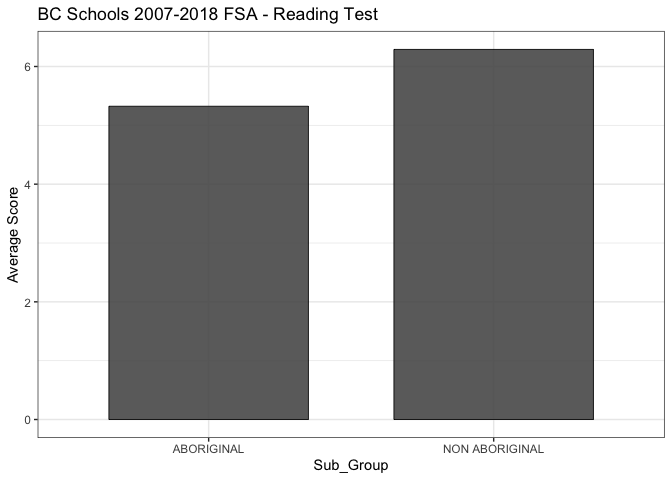
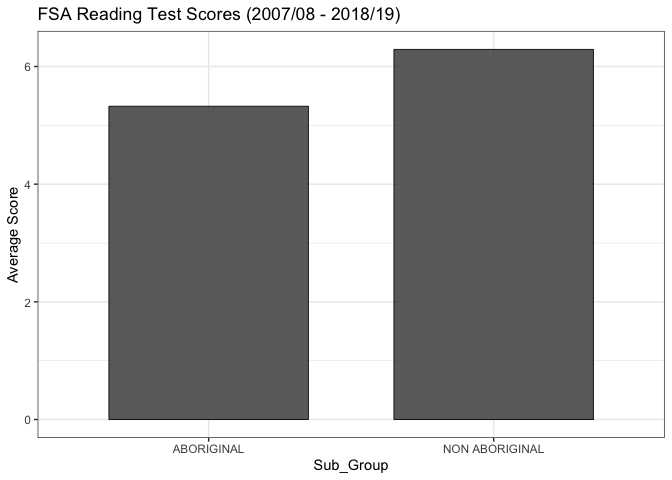
fixed EDA.Rmd code chunk names so that the file knits

Changed region(s): [[0.0625, 0.0, 0.5938, 0.0625]]

diff --git a/src/EDA.md b/src/EDA.md
@@ -317,22 +317,22 @@ scores for each group to answer subquestions.
     ## # A tibble: 16 x 5
     ##    sub_population               public_or_independent   avg `2.5%` `97.5%`
     ##    <chr>                        <chr>                 <dbl>  <dbl>   <dbl>
-    ##  1 ABORIGINAL                   BC Independent School  387.   361.    447.
-    ##  2 ABORIGINAL                   BC Public School       415.   407.    428.
-    ##  3 ALL STUDENTS                 BC Independent School  531.   504.    553.
-    ##  4 ALL STUDENTS                 BC Public School       475.   467.    470.
-    ##  5 ENGLISH LANGUAGE LEARNER     BC Independent School  551.   555.    568.
-    ##  6 ENGLISH LANGUAGE LEARNER     BC Public School       473.   462.    474.
-    ##  7 FEMALE                       BC Independent School  543.   553.    557.
-    ##  8 FEMALE                       BC Public School       474.   460.    494.
-    ##  9 MALE                         BC Independent School  551.   514.    572.
-    ## 10 MALE                         BC Public School       482.   470.    496.
-    ## 11 NON ABORIGINAL               BC Independent School  542.   494.    570.
-    ## 12 NON ABORIGINAL               BC Public School       482.   459.    502.
-    ## 13 NON ENGLISH LANGUAGE LEARNER BC Independent School  531.   496.    541.
-    ## 14 NON ENGLISH LANGUAGE LEARNER BC Public School       478.   466.    482.
-    ## 15 SPECIAL NEEDS NO GIFTED      BC Independent School  425.   385.    473.
-    ## 16 SPECIAL NEEDS NO GIFTED      BC Public School       385.   399.    408.
+    ##  1 ABORIGINAL                   BC Independent School  387.   369.    453.
+    ##  2 ABORIGINAL                   BC Public School       415.   410.    431.
+    ##  3 ALL STUDENTS                 BC Independent School  531.   491.    548.
+    ##  4 ALL STUDENTS                 BC Public School       475.   461.    489.
+    ##  5 ENGLISH LANGUAGE LEARNER     BC Independent School  551.   549.    570.
+    ##  6 ENGLISH LANGUAGE LEARNER     BC Public School       473.   467.    464.
+    ##  7 FEMALE                       BC Independent School  543.   521.    565.
+    ##  8 FEMALE                       BC Public School       474.   444.    490.
+    ##  9 MALE                         BC Independent School  551.   543.    576.
+    ## 10 MALE                         BC Public School       482.   481.    503.
+    ## 11 NON ABORIGINAL               BC Independent School  542.   531.    568.
+    ## 12 NON ABORIGINAL               BC Public School       482.   434.    487.
+    ## 13 NON ENGLISH LANGUAGE LEARNER BC Independent School  531.   529.    548.
+    ## 14 NON ENGLISH LANGUAGE LEARNER BC Public School       478.   468.    505.
+    ## 15 SPECIAL NEEDS NO GIFTED      BC Independent School  425.   388.    479.
+    ## 16 SPECIAL NEEDS NO GIFTED      BC Public School       385.   396.    422.
 
 ``` r
 bar_plot_numeracy <- ggplot(sum_num, aes(x = sub_population, y = avg))+
@@ -384,9 +384,7 @@ ridge_plot <- ggplot(ridge_data, aes(x = score, y = sub_population, fill = sub_p
                                scale = 2.0, rel_min_height = 0.01, quantile_lines = TRUE, quantiles = 4) +
            coord_cartesian(clip = "off") + # Required to plot top distribution completely
            labs(title ="FSA Test Scores By Subgroup\n(2007/08 - 2018/19)", 
-                #subtitle = "(Source: Gapminder Dataset)", 
            x = "Score") +
-           #scale_x_continuous(breaks = seq(30, 100, 5)) +
            theme_ridges() + 
            theme(legend.position = "none") +
            theme(axis.text.x = element_text(angle = 70, hjust = 1, size = 10, face = "bold"),
@@ -409,22 +407,22 @@ ridge_plot + facet_grid(cols = vars(fsa_skill_code))
     ## # A tibble: 16 x 5
     ##    sub_population               public_or_independent   avg `2.5%` `97.5%`
     ##    <chr>                        <chr>                 <dbl>  <dbl>   <dbl>
-    ##  1 ABORIGINAL                   BC Independent School  398.   391.    433.
-    ##  2 ABORIGINAL                   BC Public School       435.   420.    452.
-    ##  3 ALL STUDENTS                 BC Independent School  530.   519.    532.
-    ##  4 ALL STUDENTS                 BC Public School       482.   470.    489.
-    ##  5 ENGLISH LANGUAGE LEARNER     BC Independent School  510.   493.    533.
-    ##  6 ENGLISH LANGUAGE LEARNER     BC Public School       453.   429.    466.
-    ##  7 FEMALE                       BC Independent School  550.   527.    573.
-    ##  8 FEMALE                       BC Public School       493.   470.    511.
-    ##  9 MALE                         BC Independent School  532.   522.    551.
-    ## 10 MALE                         BC Public School       474.   463.    471.
-    ## 11 NON ABORIGINAL               BC Independent School  539.   534.    557.
-    ## 12 NON ABORIGINAL               BC Public School       488.   479.    500.
-    ## 13 NON ENGLISH LANGUAGE LEARNER BC Independent School  531.   524.    551.
-    ## 14 NON ENGLISH LANGUAGE LEARNER BC Public School       488.   478.    500.
-    ## 15 SPECIAL NEEDS NO GIFTED      BC Independent School  461.   421.    502.
-    ## 16 SPECIAL NEEDS NO GIFTED      BC Public School       409.   387.    425.
+    ##  1 ABORIGINAL                   BC Independent School  398.   372.    416.
+    ##  2 ABORIGINAL                   BC Public School       435.   425.    450.
+    ##  3 ALL STUDENTS                 BC Independent School  530.   502.    544.
+    ##  4 ALL STUDENTS                 BC Public School       482.   475.    487.
+    ##  5 ENGLISH LANGUAGE LEARNER     BC Independent School  510.   500.    526.
+    ##  6 ENGLISH LANGUAGE LEARNER     BC Public School       453.   431.    464.
+    ##  7 FEMALE                       BC Independent School  550.   532.    556.
+    ##  8 FEMALE                       BC Public School       493.   476.    513.
+    ##  9 MALE                         BC Independent School  532.   531.    544.
+    ## 10 MALE                         BC Public School       474.   460.    489.
+    ## 11 NON ABORIGINAL               BC Independent School  539.   528.    559.
+    ## 12 NON ABORIGINAL               BC Public School       488.   487.    496.
+    ## 13 NON ENGLISH LANGUAGE LEARNER BC Independent School  531.   505.    534.
+    ## 14 NON ENGLISH LANGUAGE LEARNER BC Public School       488.   488.    496.
+    ## 15 SPECIAL NEEDS NO GIFTED      BC Independent School  461.   428.    508.
+    ## 16 SPECIAL NEEDS NO GIFTED      BC Public School       409.   405.    420.
 
 ``` r
 bar_plot_reading <- ggplot(sum_read, aes(x = sub_population, y = avg))+
@@ -463,27 +461,27 @@ pi_boxplot_reading <- ggplot(pub_ind_read, aes(x = public_or_independent, y = sc
 pi_boxplot_reading
 ```
 
-![](EDA_files/figure-gfm/7.2.2%20Public%20vs%20Independent%20Boxplot%20Chart%20-%20Reading%20Test%20Results-1.png)<!-- -->
+![](EDA_files/figure-gfm/7.2.2.0%20Public%20vs%20Independent%20Boxplot%20Chart%20-%20Reading%20Test%20Results-1.png)<!-- -->
 
     ## # A tibble: 16 x 5
     ##    sub_population               public_or_independent   avg `2.5%` `97.5%`
     ##    <chr>                        <chr>                 <dbl>  <dbl>   <dbl>
-    ##  1 ABORIGINAL                   BC Independent School  4.04   3.63    4.96
-    ##  2 ABORIGINAL                   BC Public School       4.91   4.94    5.66
-    ##  3 ALL STUDENTS                 BC Independent School  6.98   6.02    7.62
-    ##  4 ALL STUDENTS                 BC Public School       5.92   5.16    7.06
-    ##  5 ENGLISH LANGUAGE LEARNER     BC Independent School  6.78   6.69    7.36
-    ##  6 ENGLISH LANGUAGE LEARNER     BC Public School       5.45   4.87    5.82
-    ##  7 FEMALE                       BC Independent School  7.46   6.24    8.56
-    ##  8 FEMALE                       BC Public School       6.28   5.34    7.27
-    ##  9 MALE                         BC Independent School  6.70   5.58    7.35
-    ## 10 MALE                         BC Public School       5.55   5.10    6.48
-    ## 11 NON ABORIGINAL               BC Independent School  7.12   6.77    7.96
-    ## 12 NON ABORIGINAL               BC Public School       6.02   5.23    6.51
-    ## 13 NON ENGLISH LANGUAGE LEARNER BC Independent School  6.98   6.81    8.06
-    ## 14 NON ENGLISH LANGUAGE LEARNER BC Public School       5.97   5.64    6.89
-    ## 15 SPECIAL NEEDS NO GIFTED      BC Independent School  4.24   3.56    5.23
-    ## 16 SPECIAL NEEDS NO GIFTED      BC Public School       4.21   4.09    4.89
+    ##  1 ABORIGINAL                   BC Independent School  4.04   3.73    4.68
+    ##  2 ABORIGINAL                   BC Public School       4.91   4.62    5.72
+    ##  3 ALL STUDENTS                 BC Independent School  6.98   5.19    7.66
+    ##  4 ALL STUDENTS                 BC Public School       5.92   5.42    6.13
+    ##  5 ENGLISH LANGUAGE LEARNER     BC Independent School  6.78   6.54    7.66
+    ##  6 ENGLISH LANGUAGE LEARNER     BC Public School       5.45   5.09    6.18
+    ##  7 FEMALE                       BC Independent School  7.46   6.67    8.14
+    ##  8 FEMALE                       BC Public School       6.28   5.55    6.92
+    ##  9 MALE                         BC Independent School  6.70   6.09    7.34
+    ## 10 MALE                         BC Public School       5.55   5.03    6.27
+    ## 11 NON ABORIGINAL               BC Independent School  7.12   6.26    7.52
+    ## 12 NON ABORIGINAL               BC Public School       6.02   5.73    6.30
+    ## 13 NON ENGLISH LANGUAGE LEARNER BC Independent School  6.98   6.09    7.39
+    ## 14 NON ENGLISH LANGUAGE LEARNER BC Public School       5.97   5.28    6.67
+    ## 15 SPECIAL NEEDS NO GIFTED      BC Independent School  4.24   3.90    5.38
+    ## 16 SPECIAL NEEDS NO GIFTED      BC Public School       4.21   3.64    5.24
 
 ``` r
 bar_plot_writing <- ggplot(sum_write, aes(x = sub_population, y = avg))+
@@ -541,8 +539,8 @@ sum_ab_num
     ## # A tibble: 2 x 4
     ##   sub_population   avg `2.5%` `97.5%`
     ##   <chr>          <dbl>  <dbl>   <dbl>
-    ## 1 ABORIGINAL      427.   408.    425.
-    ## 2 NON ABORIGINAL  494.   461.    512.
+    ## 1 ABORIGINAL      427.   387.    436.
+    ## 2 NON ABORIGINAL  494.   489.    509.
 
 ``` r
 ab_bar_plot_numeracy <- ggplot(sum_ab_num, aes(x = sub_population, y = avg))+
@@ -599,8 +597,8 @@ sum_ab_read
     ## # A tibble: 2 x 4
     ##   sub_population   avg `2.5%` `97.5%`
     ##   <chr>          <dbl>  <dbl>   <dbl>
-    ## 1 ABORIGINAL      445.   434.    451.
-    ## 2 NON ABORIGINAL  498.   491.    506.
+    ## 1 ABORIGINAL      445.   422.    457.
+    ## 2 NON ABORIGINAL  498.   487.    502.
 
 ``` r
 ab_bar_plot_numeracy <- ggplot(sum_ab_read, aes(x = sub_population, y = avg))+
@@ -657,15 +655,15 @@ sum_ab_write
     ## # A tibble: 2 x 4
     ##   sub_population   avg `2.5%` `97.5%`
     ##   <chr>          <dbl>  <dbl>   <dbl>
-    ## 1 ABORIGINAL      5.32   4.27    5.67
-    ## 2 NON ABORIGINAL  6.29   5.33    7.10
+    ## 1 ABORIGINAL      5.32   4.54    5.62
+    ## 2 NON ABORIGINAL  6.29   4.94    7.04
 
 ``` r
 ab_bar_plot_numeracy <- ggplot(sum_ab_write, aes(x = sub_population, y = avg))+
       geom_col(width = 0.7 , alpha=0.9 , size=0.3, colour="black",position = "dodge") +
       labs(y = "Average Score",
            x = "Sub_Group",
-           title = "BC Schools 2007-2018 FSA - Reading Test ") +
+           title = "FSA Reading Test Scores (2007/08 - 2018/19)") +
       theme(legend.position = "bot") +
       theme_bw()
 
